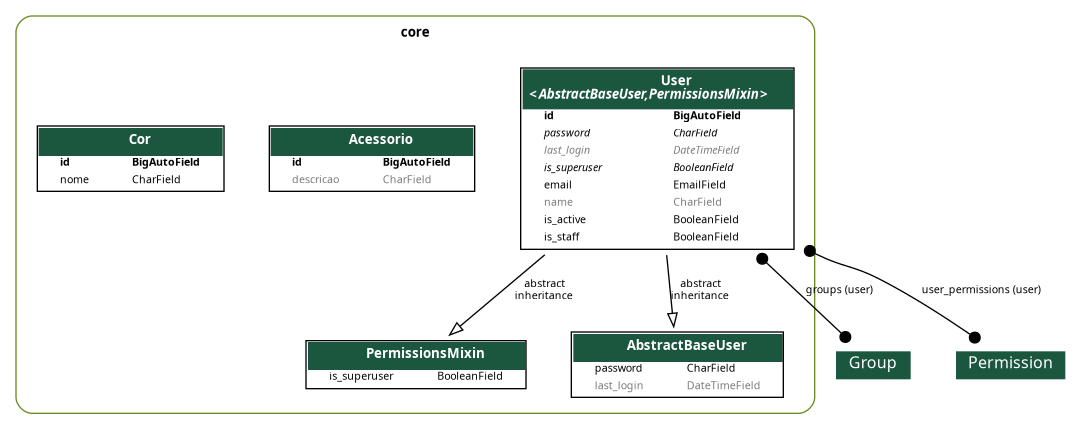
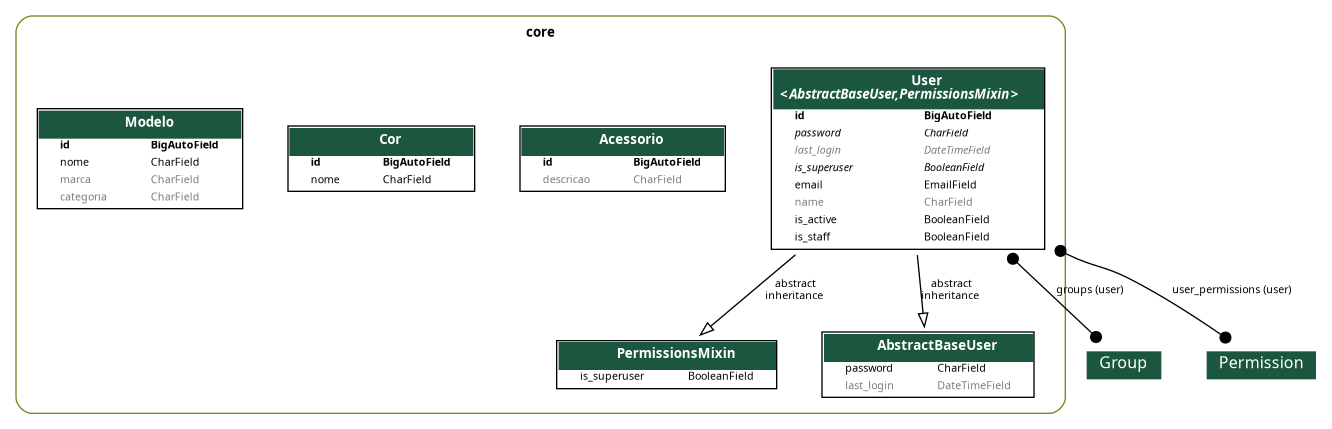
FEAT: API Modelo

diff --git a/core/migrations/0008_modelo_alter_cor_options.py b/core/migrations/0008_modelo_alter_cor_options.py
@@ -1,0 +1,26 @@
+# Generated by Django 5.2.12 on 2026-04-08 16:35
+
+from django.db import migrations, models
+
+
+class Migration(migrations.Migration):
+
+    dependencies = [
+        ('core', '0007_cor'),
+    ]
+
+    operations = [
+        migrations.CreateModel(
+            name='Modelo',
+            fields=[
+                ('id', models.BigAutoField(auto_created=True, primary_key=True, serialize=False, verbose_name='ID')),
+                ('nome', models.CharField(max_length=80)),
+                ('marca', models.CharField(blank=True, max_length=80, null=True)),
+                ('categoria', models.CharField(blank=True, max_length=80, null=True)),
+            ],
+        ),
+        migrations.AlterModelOptions(
+            name='cor',
+            options={'verbose_name_plural': 'Cores'},
+        ),
+    ]

diff --git a/app/urls.py b/app/urls.py
@@ -11,12 +11,13 @@ from rest_framework_simplejwt.views import (
     TokenRefreshView,
     TokenVerifyView,
 )
-from core.views import UserRegistrationView, UserViewSet, AcessorioViewSet, CorViewSet
+from core.views import UserRegistrationView, UserViewSet, AcessorioViewSet, CorViewSet, ModeloViewSet
 
 router = DefaultRouter()
 
 router.register(r'acessorios', AcessorioViewSet, basename='acessorios')
 router.register(r'cores', CorViewSet, basename='cores')
+router.register(r'modelos', ModeloViewSet, basename='modelos')
 router.register(r'usuarios', UserViewSet, basename='usuarios')
 
 urlpatterns = [

diff --git a/core/models/modelo.py b/core/models/modelo.py
@@ -1,0 +1,10 @@
+from django.db import models
+
+class Modelo(models.Model):
+    nome = models.CharField(max_length=80)
+    marca = models.CharField(max_length=80, null=True, blank=True)
+    categoria = models.CharField(max_length=80, null=True, blank=True)
+
+
+    def __str__(self):
+        return f"{self.id} - {self.marca.upper()} - {self.nome.upper()}"

diff --git a/core/views/modelo.py b/core/views/modelo.py
@@ -1,0 +1,7 @@
+from rest_framework.viewsets import ModelViewSet
+from core.models import Modelo
+from core.serializers import ModeloSerializer
+
+class ModeloViewSet(ModelViewSet):
+    queryset = Modelo.objects.all()
+    serializer_class = ModeloSerializer

diff --git a/core/serializers/modelo.py b/core/serializers/modelo.py
@@ -1,0 +1,7 @@
+from rest_framework.serializers import ModelSerializer
+from core.models import Modelo
+
+class ModeloSerializer(ModelSerializer):
+    class Meta:
+        model = Modelo
+        fields = '__all__'

diff --git a/core/admin.py b/core/admin.py
@@ -52,4 +52,5 @@ class UserAdmin(BaseUserAdmin):
 
 admin.site.register(models.Acessorio)
 admin.site.register(models.Cor)
+admin.site.register(models.Modelo)
 admin.site.register(models.User, UserAdmin)

diff --git a/core/serializers/__init__.py b/core/serializers/__init__.py
@@ -1,3 +1,4 @@
 from .user import UserRegistrationSerializer, UserSerializer
 from .acessorio import AcessorioSerializer
 from .cor import CorSerializer
+from .modelo import ModeloSerializer

diff --git a/core/views/__init__.py b/core/views/__init__.py
@@ -1,3 +1,4 @@
 from .user import UserRegistrationView, UserViewSet
 from .acessorio import AcessorioViewSet
 from .cor import CorViewSet
+from .modelo import ModeloViewSet

diff --git a/core/models/__init__.py b/core/models/__init__.py
@@ -1,3 +1,4 @@
 from .user import User
 from .acessorio import Acessorio
 from .cor import Cor
+from .modelo import Modelo
